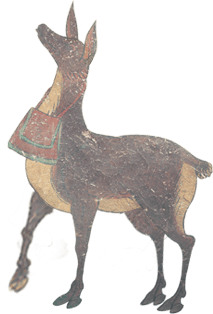
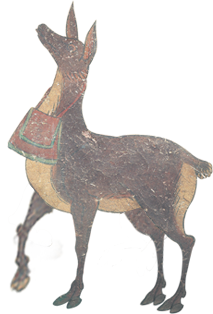
##

Changed region(s): [[0.0282, 0.6019, 0.2535, 0.9459]]

diff --git a/css/index.css b/css/index.css
@@ -174,98 +174,127 @@ img{display: block; font-size: 0;}
 .part3-deer{width: 27.73vw; height: 41.87vw; }
 .part3-earLeft{width: 2.27vw; height: 5.73vw; position: absolute; top: 0; left: 8vw; background: url("../img/part3-earLeft.png") no-repeat; -webkit-background-size: 100% 100%; background-size: 100% 100%;
     transform-origin: bottom center;
-    animation: part3EarLeftMove 7s infinite linear 0s forwards;
+    animation: part3EarLeftMove 8s infinite linear 0s forwards;
 }
 .part3-earRight{width: 2vw; height: 5.73vw; position: absolute; top: 2.2vw; left: 11vw; background: url("../img/part3-earRight.png") no-repeat; -webkit-background-size: 100% 100%; background-size: 100% 100%; transform-origin: 0% 80%; transform: rotate(0deg);
-    animation: part3EarRightMove 7s infinite linear 0s forwards;
+    animation: part3EarRightMove 8s infinite linear 0s forwards;
 }
 @-webkit-keyframes part3EarLeftMove {
     0%{transform: rotate(0deg);}
-    2%{transform: rotate(-10deg);}
-    4%{transform: rotate(2deg);}
-    6%{transform: rotate(-8deg);}
-    8%{transform: rotate(2deg);}
-    10%{transform: rotate(10deg);}
-    11%{transform: rotate(0deg);}
+    1.5%{transform: rotate(-10deg);}
+    3%{transform: rotate(2deg);}
+    4.5%{transform: rotate(-8deg);}
+    6%{transform: rotate(2deg);}
+    7.5%{transform: rotate(10deg);}
+    10%{transform: rotate(0deg);}
     100%{transform: rotate(0deg);}
 }
 @-webkit-keyframes part3EarRightMove {
     0%{transform: rotate(0deg);}
-    2%{transform: rotate(10deg);}
-    4%{transform: rotate(2deg);}
-    6%{transform: rotate(8deg);}
-    8%{transform: rotate(2deg);}
-    10%{transform: rotate(10deg);}
-    11%{transform: rotate(0deg);}
+    1.5%{transform: rotate(10deg);}
+    3%{transform: rotate(2deg);}
+    4.5%{transform: rotate(8deg);}
+    6%{transform: rotate(2deg);}
+    7.5%{transform: rotate(10deg);}
+    10%{transform: rotate(0deg);}
     100%{transform: rotate(0deg);}}
 
-.part3-legs{position: absolute;  left: 3.5vw; top: 24vw; transform-origin: 50% 20%; transform: rotate(0deg); margin-top: -0.5vw;
-    animation: part3bone1Move 7s infinite linear 0s forwards;
+.part3-legs{position: absolute;  left: 3.2vw; top: 23vw; transform-origin: 50% 20%; transform: rotate(0deg);
+    animation: part3bone1Move 8s infinite linear 0s forwards;
 }
-.part3-bone1{width: 4vw; height: 10.133vw;}
-.part3-legs2{margin-top: -4.6vw; margin-left: 0vw; transform-origin: 65% 16%; transform: rotate(-0deg);animation: part3bone2Move 7s infinite linear 0s forwards;}
+.part3-bone1{width: 4.4vw; height: 10.133vw;}
+.part3-legs2{ position: absolute; top:6.1vw; left: 2vw; transform-origin: 35% 12.5%; transform: rotate(-0deg);
+    animation: part3bone2Move 8s infinite linear 0s forwards;
+}
 .part3-bone2{width: 4.133vw; height: 9.6vw; }
-.part3-bone3{width: 3.2vw; height: 5.2vw; background: url("../img/part3-bone3.png") no-repeat; -webkit-background-size: 100% 100%; background-size: 100% 100%; margin-left: -0.2vw; margin-top: -5.6vw; transform-origin: center 20%;  transform: rotate(-0deg);
-    animation: part3bone3Move 7s infinite linear 0s forwards;
+.part3-bone3{width: 3.2vw; height: 5.2vw; position: absolute; background: url("../img/part3-bone3.png") no-repeat; -webkit-background-size: 100% 100%; background-size: 100% 100%; left: 0vw; top: 4.5vw; transform-origin: center 20%;  transform: rotate(-0deg);
+    animation: part3bone3Move 8s infinite linear 0s forwards;
 }
 @-webkit-keyframes part3bone1Move {
     0%{transform: rotate(0deg);}
+
     15%{transform: rotate(0deg);}
-    19%{transform: rotate(20deg);}
-    23%{transform: rotate(31deg);}
-    27%{transform: rotate(17deg); }
-    31%{transform: rotate(0deg);}
-    35%{transform: rotate(20deg);}
-    39%{transform: rotate(31deg);}
-    43%{transform: rotate(17deg);}
-    47%{transform: rotate(0deg);}
-    51%{transform: rotate(20deg);}
-    55%{transform: rotate(31deg);}
-    59%{transform: rotate(17deg);}
-    63%{transform: rotate(0deg);}
-    /*56.33%{transform: rotate(29deg);}*/
-    /*60.67%{transform: rotate(15deg);}*/
-    /*65%{transform: rotate(0deg);}*/
+    18.125%{transform: rotate(-1deg);}
+    21.25%{transform: rotate(23deg); }
+    24.375%{transform: rotate(35deg);}
+    27.5%{transform: rotate(52deg);}
+    30.625%{transform: rotate(45deg);}
+
+
+    33.75%{transform: rotate(0deg);}
+    36.875%{transform: rotate(-1deg);}
+    40%{transform: rotate(23deg);}
+    43.125%{transform: rotate(35deg);}
+    46.25%{transform: rotate(52deg);}
+    49.375%{transform: rotate(45deg);}
+
+    52.5%{transform: rotate(0deg);}
+    55.625%{transform: rotate(-1deg);}
+    58.75%{transform: rotate(23deg);}
+    61.875%{transform: rotate(35deg);}
+    65%{transform: rotate(52deg);}
+    68.125%{transform: rotate(45deg);}
+
+    71.25%{transform: rotate(0deg);}
+
     100%{transform: rotate(0deg);}
 }
 @-webkit-keyframes part3bone2Move {
     0%{transform: rotate(0deg);}
+
     15%{transform: rotate(0deg);}
-    19%{transform: rotate(-28deg);}
-    23%{transform: rotate(-3deg);}
-    27%{transform: rotate(-5deg);}
-    31%{transform: rotate(0deg);}
-    35%{transform: rotate(-28deg);}
-    39%{transform: rotate(-3deg);}
-    43%{transform: rotate(-5deg);}
-    47%{transform: rotate(0deg);}
-    51%{transform: rotate(-28deg);}
-    55%{transform: rotate(-3deg);}
-    59%{transform: rotate(-5deg);}
-    65%{transform: rotate(0deg);}
-    /*56.33%{transform: rotate(29deg);}*/
-    /*60.67%{transform: rotate(15deg);}*/
-    /*65%{transform: rotate(0deg);}*/
+    18.125%{transform: rotate(-24deg);}
+    21.25%{transform: rotate(-42deg); }
+    24.375%{transform: rotate(-34deg);}
+    27.5%{transform: rotate(-37deg);}
+    30.625%{transform: rotate(-38deg);}
+
+
+    33.75%{transform: rotate(0deg);}
+    36.875%{transform: rotate(-24deg);}
+    40%{transform: rotate(-42deg);}
+    43.125%{transform: rotate(-34deg);}
+    46.25%{transform: rotate(-37deg);}
+    49.375%{transform: rotate(-38deg);}
+
+    52.5%{transform: rotate(0deg);}
+    55.625%{transform: rotate(-24deg);}
+    58.75%{transform: rotate(-42deg);}
+    61.875%{transform: rotate(-34deg);}
+    65%{transform: rotate(-37deg);}
+    68.125%{transform: rotate(-38deg);}
+
+    71.25%{transform: rotate(0deg);}
+
     100%{transform: rotate(0deg);}
 }
 @-webkit-keyframes part3bone3Move {
     0%{transform: rotate(0deg);}
+
     15%{transform: rotate(0deg);}
-    19%{transform: rotate(-61deg);}
-    23%{transform: rotate(-44deg);}
-    27%{transform: rotate(-2deg);}
-    31%{transform: rotate(0deg);}
-    35%{transform: rotate(-61deg);}
-    39%{transform: rotate(-44deg);}
-    43%{transform: rotate(-2deg);}
-    47%{transform: rotate(0deg);}
-    51%{transform: rotate(-61deg);}
-    55%{transform: rotate(-44deg);}
-    59%{transform: rotate(-2deg);}
-    65%{transform: rotate(0deg);}
-    /*56.33%{transform: rotate(29deg);}*/
-    /*60.67%{transform: rotate(15deg);}*/
-    /*65%{transform: rotate(0deg);}*/
+    18.125%{transform: rotate(-38deg);}
+    21.25%{transform: rotate(-53deg); }
+    24.375%{transform: rotate(-50deg);}
+    27.5%{transform: rotate(-49deg);}
+    30.625%{transform: rotate(0deg);}
+
+
+    33.75%{transform: rotate(0deg);}
+    36.875%{transform: rotate(-38deg);}
+    40%{transform: rotate(-53deg);}
+    43.125%{transform: rotate(-50deg);}
+    46.25%{transform: rotate(-49deg);}
+    49.375%{transform: rotate(0deg);}
+
+    52.5%{transform: rotate(0deg);}
+    55.625%{transform: rotate(-38deg);}
+    58.75%{transform: rotate(-53deg);}
+    61.875%{transform: rotate(-50deg);}
+    65%{transform: rotate(-49deg);}
+    68.125%{transform: rotate(0deg);}
+
+    71.25%{transform: rotate(0deg);}
+
     100%{transform: rotate(0deg);}
 }
 .part3-body{width: 100%; position: absolute; left: 0; top: 0;}

diff --git a/register.html b/register.html
@@ -133,7 +133,7 @@
                             </div>
                         </div>
                         <a href="javascript:;" class="register-next po-re">
-                            <img src="img/register-done.png" alt=""/>
+                            <img src="img/register-2.png" alt=""/>
                         </a>
                         <div class="register-links">
                             已注册？
